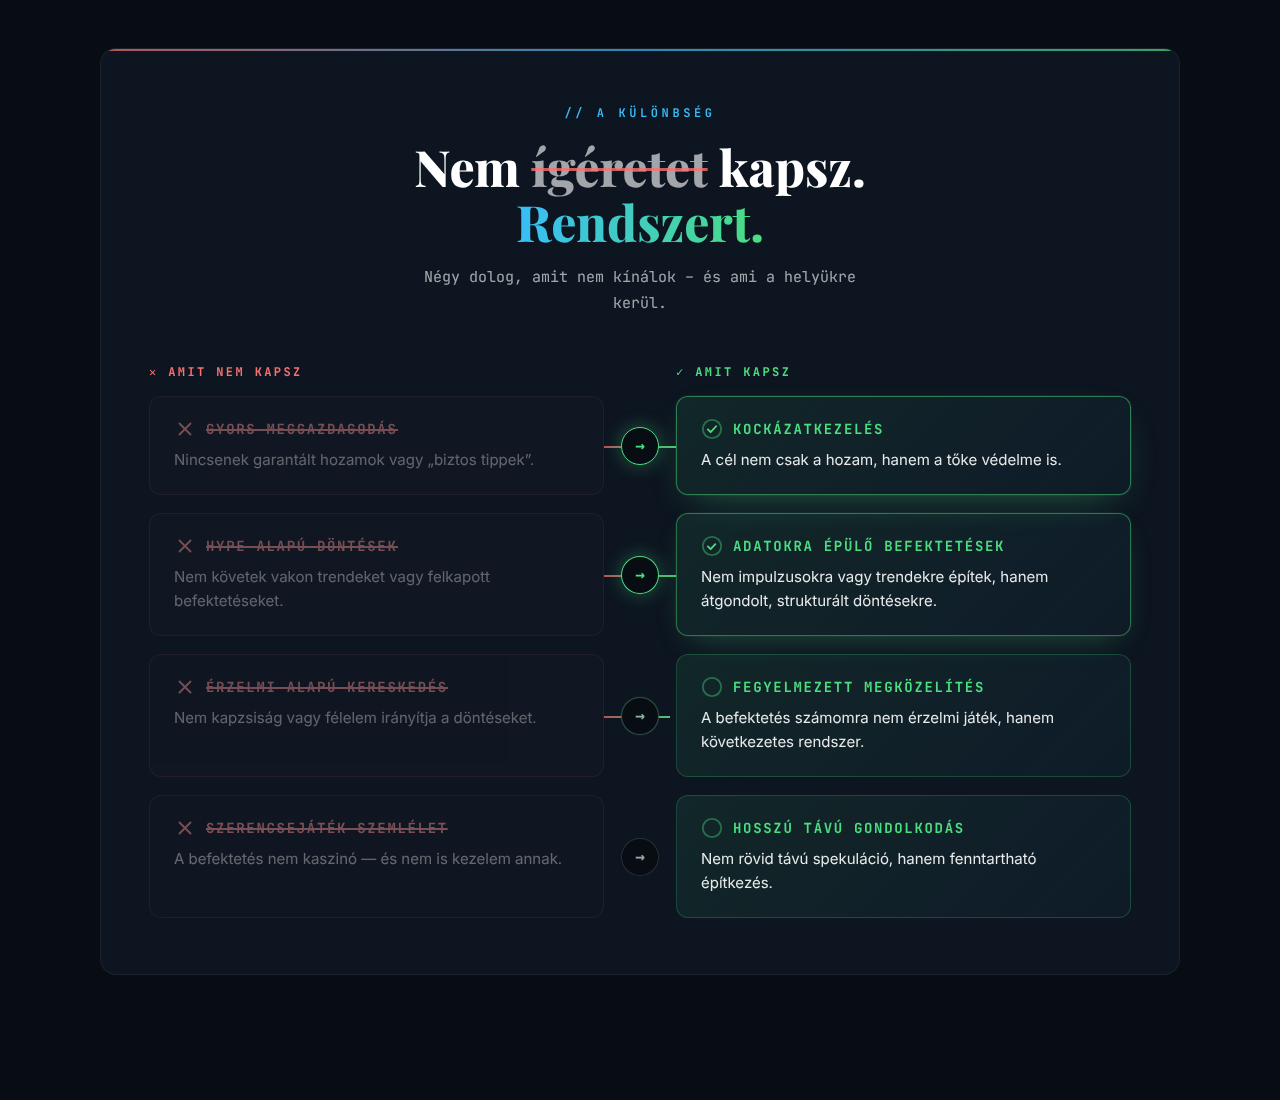
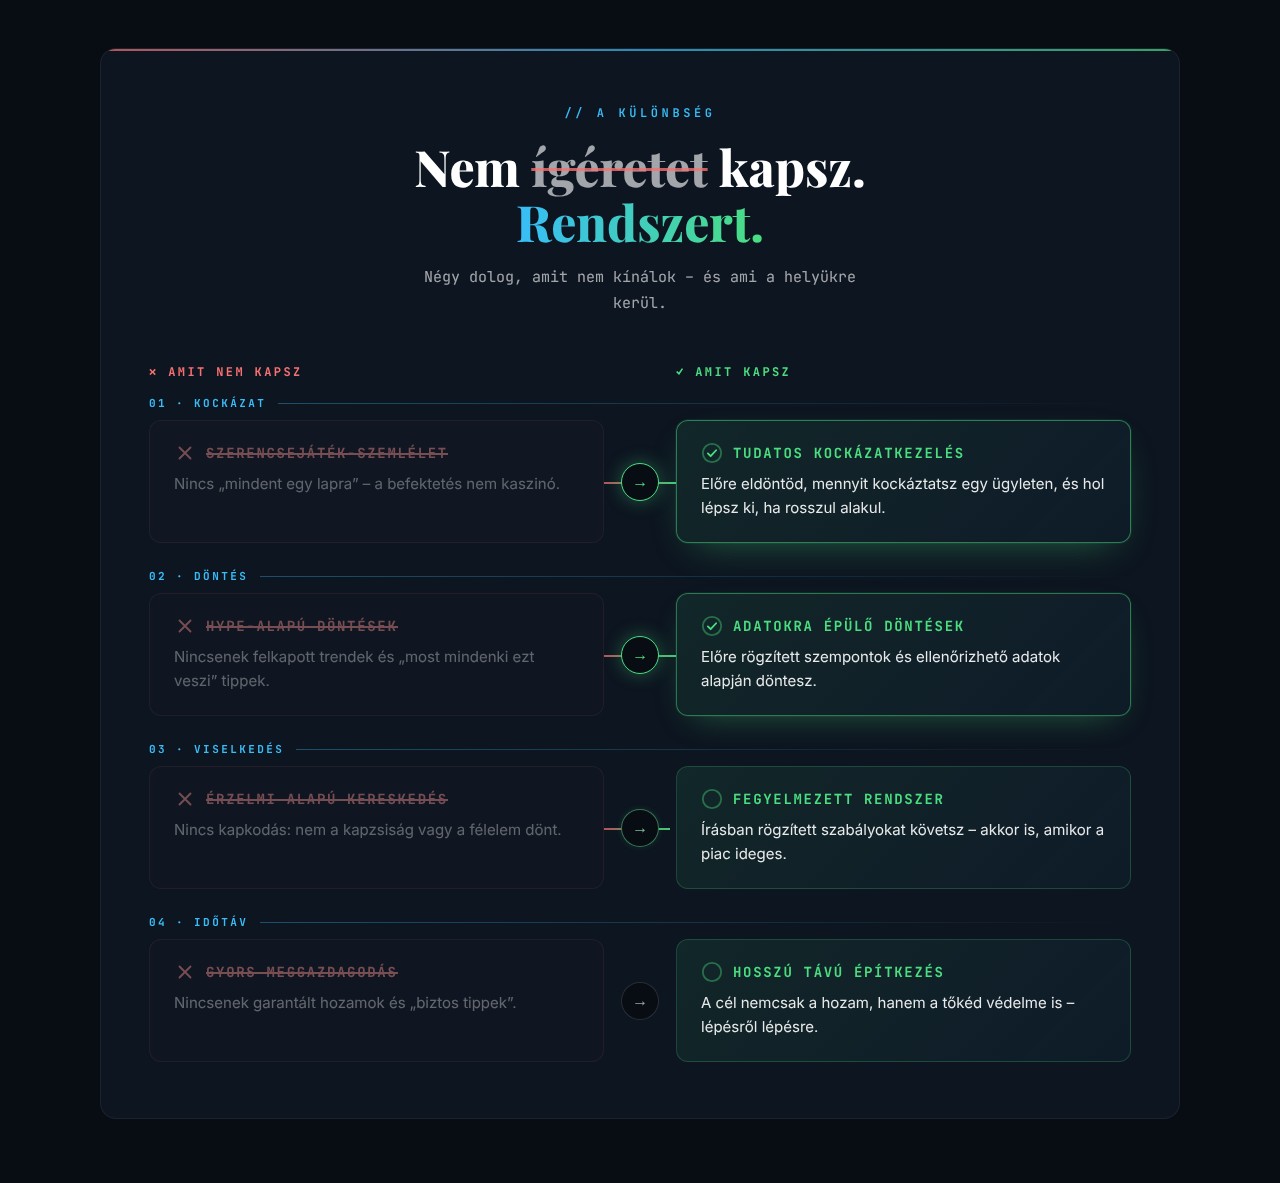
Prototípus: tematikus párok és egységes szövegszerkezet
Claude-Session: https://claude.ai/code/session_01AbM57VKBRbJE4igNZSSuiB

diff --git a/designs/kapsz-nem-kapsz/prototipus.html b/designs/kapsz-nem-kapsz/prototipus.html
@@ -27,7 +27,9 @@
   .labels { margin: 48px 0 16px; }
   .labels span { font: 700 12px var(--mono); letter-spacing: .2em; text-transform: uppercase; display: inline-flex; gap: 8px; align-items: center; }
   .labels .l { color: var(--red); } .labels .r { color: var(--green); }
-  .rows { display: grid; gap: 18px; }
+  .rows { display: grid; gap: 26px; }
+  .axis { grid-column: 1 / -1; font: 700 11px var(--mono); letter-spacing: .22em; text-transform: uppercase; color: var(--blue); margin-bottom: 10px; display: flex; align-items: center; gap: 12px; }
+  .axis::after { content: ""; flex: 1; height: 1px; background: linear-gradient(90deg, rgba(56,189,248,.35), transparent); }
 
   .card { border-radius: 12px; padding: 22px 24px; position: relative; transition: transform .25s, box-shadow .5s, opacity .5s, filter .5s, border-color .5s; }
   .card h3 { margin: 0; font: 700 14px/1.5 var(--mono); letter-spacing: .12em; text-transform: uppercase; display: flex; align-items: flex-start; gap: 10px; }
@@ -93,15 +95,16 @@
 
 <script>
 const pairs = [
-  [["Gyors meggazdagodás","Nincsenek garantált hozamok vagy „biztos tippek”."],["Kockázatkezelés","A cél nem csak a hozam, hanem a tőke védelme is."]],
-  [["Hype alapú döntések","Nem követek vakon trendeket vagy felkapott befektetéseket."],["Adatokra épülő befektetések","Nem impulzusokra vagy trendekre építek, hanem átgondolt, strukturált döntésekre."]],
-  [["Érzelmi alapú kereskedés","Nem kapzsiság vagy félelem irányítja a döntéseket."],["Fegyelmezett megközelítés","A befektetés számomra nem érzelmi játék, hanem következetes rendszer."]],
-  [["Szerencsejáték szemlélet","A befektetés nem kaszinó — és nem is kezelem annak."],["Hosszú távú gondolkodás","Nem rövid távú spekuláció, hanem fenntartható építkezés."]],
+  ["01 · Kockázat",["Szerencsejáték-szemlélet","Nincs „mindent egy lapra” – a befektetés nem kaszinó."],["Tudatos kockázatkezelés","Előre eldöntöd, mennyit kockáztatsz egy ügyleten, és hol lépsz ki, ha rosszul alakul."]],
+  ["02 · Döntés",["Hype-alapú döntések","Nincsenek felkapott trendek és „most mindenki ezt veszi” tippek."],["Adatokra épülő döntések","Előre rögzített szempontok és ellenőrizhető adatok alapján döntesz."]],
+  ["03 · Viselkedés",["Érzelmi alapú kereskedés","Nincs kapkodás: nem a kapzsiság vagy a félelem dönt."],["Fegyelmezett rendszer","Írásban rögzített szabályokat követsz – akkor is, amikor a piac ideges."]],
+  ["04 · Időtáv",["Gyors meggazdagodás","Nincsenek garantált hozamok és „biztos tippek”."],["Hosszú távú építkezés","A cél nemcsak a hozam, hanem a tőkéd védelme is – lépésről lépésre."]],
 ];
 const x = '<svg class="ico x" viewBox="0 0 24 24"><path d="M6 6l12 12M18 6L6 18"/></svg>';
 const c = '<svg class="ico chk" viewBox="0 0 24 24"><circle cx="12" cy="12" r="10"/><path d="M7.5 12.5l3 3 6-6.5"/></svg>';
-document.getElementById("rows").innerHTML = pairs.map(([n,p]) => `
+document.getElementById("rows").innerHTML = pairs.map(([a,n,p]) => `
   <div class="row">
+    <div class="axis">${a}</div>
     <div class="card neg"><h3>${x}<span><span class="t">${n[0]}</span></span></h3><p>${n[1]}</p></div>
     <div class="bridge" aria-hidden="true"><span class="node">→</span></div>
     <div class="card pos"><h3>${c}<span>${p[0]}</span></h3><p>${p[1]}</p></div>
